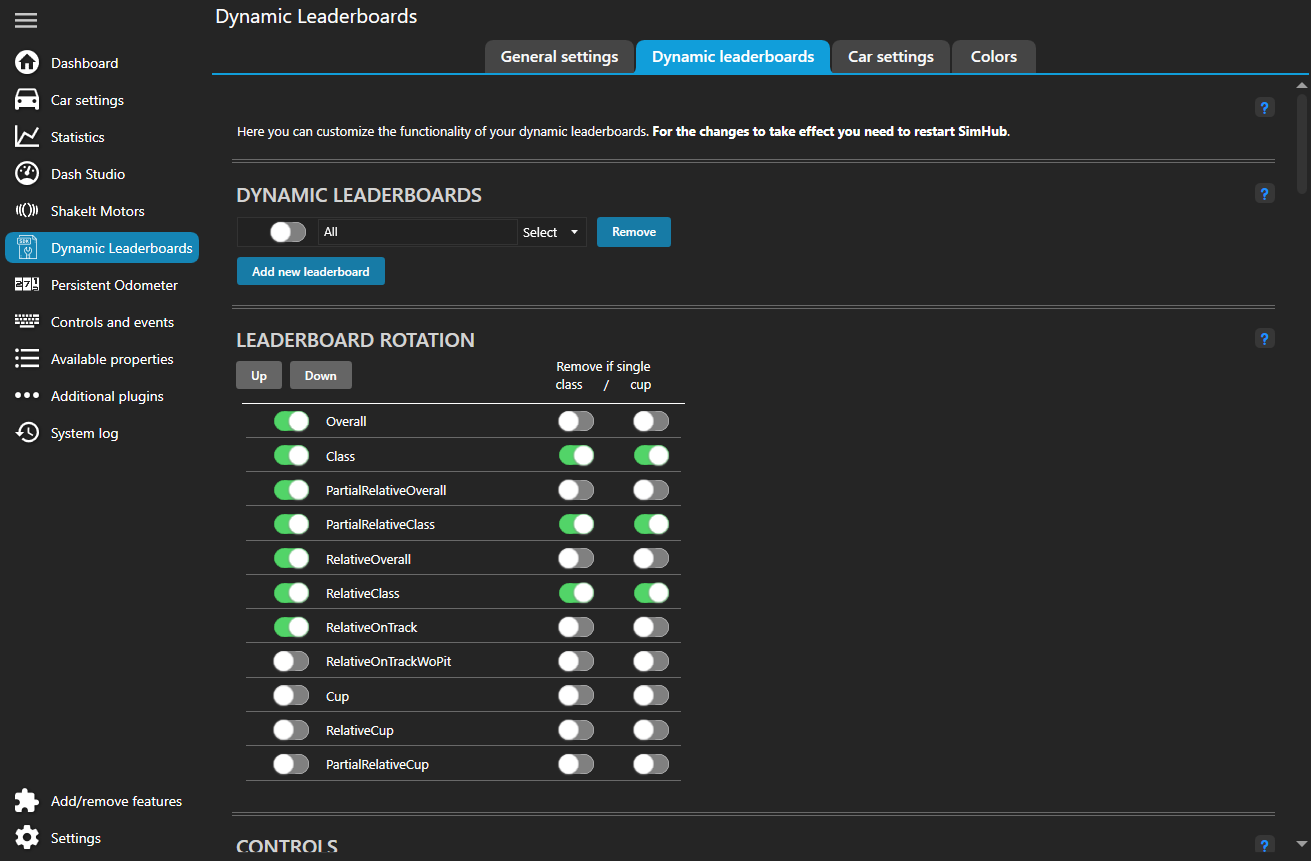
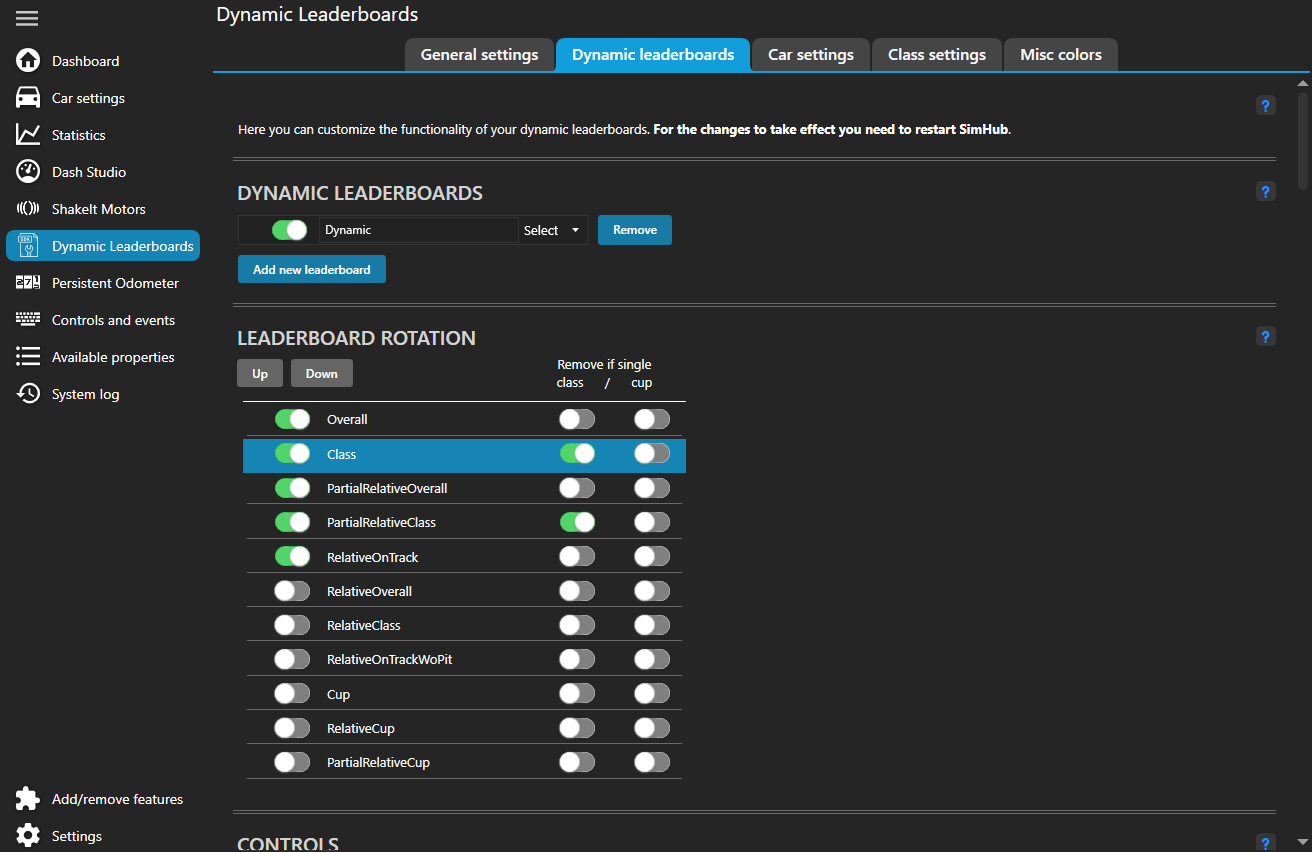
docs: add new class settings menu docs
* update car settings menu and misc colors to current state

diff --git a/src/settings/ui/SettingsControl.xaml b/src/settings/ui/SettingsControl.xaml
@@ -925,7 +925,7 @@
 
         </styles:SHTabItem>
 
-        <styles:SHTabItem Header="Colors">
+        <styles:SHTabItem Header="Misc colors">
             <ScrollViewer>
                 <StackPanel Margin="20">
                     <StackPanel.Resources>
@@ -937,7 +937,7 @@
                     </StackPanel.Resources>
 
 
-                    <local:DocsHelpButton RelativePath="user_guide/config/#colors" />
+                    <local:DocsHelpButton RelativePath="user_guide/config/#misc-colors" />
 
                     <local:SectionTitle>Team cup category colors</local:SectionTitle>
 

diff --git a/docs/docs/user_guide/config.md b/docs/docs/user_guide/config.md
@@ -12,6 +12,7 @@
 
 This plugin provides bunch of configuration options. 
 Go to the plugin settings either directly from the left main menu "Dynamic Leaderboards" item or under "Additional plugins" item.
+Each section in SimHub menu has a little help button which directly links to the relevant section in here.
 
 Below is the documentation for all the available options.
 
@@ -140,7 +141,7 @@ If you are creating your own dashboard make sure to give [Creating dashboards](c
 This tab provides an option to change car names, manufacturers and classes. 
 All the available cars are listed on the left. 
 If the plugin detects a new car while in game it will be added to the list but for now you'll
-need to manually refresh the list by clicking the "Refresh" button.
+need to manually refresh the list by clicking the `Refresh` button.
 A new car will be added in disabled state but most of the times reasonable defaults will be provided
 for easy customization.
 
@@ -156,7 +157,7 @@ However next two levels can fix it.
 
 * Next there is base plugin data which is either bundled by the plugin with the download or it's generated from game files.
 At the moment base data is provided for ACC (which matches v1.x data) and it can be generated for AC ([more information about it](#assetto-corsa)).
-Main reason for this middle layer is so that the the plugin could update and improve the data without deleting user overrides.
+The main use for base data is to match in game info (names, classes, colors etc) by default and allow us to update and improve the data without deleting user overrides.
 
 * Finally a user can override any of the car settings. These are persistent between plugin updates.
 
@@ -165,31 +166,6 @@ Main reason for this middle layer is so that the the plugin could update and imp
     In the car settings menu if a property is enabled then whatever text is in text box will be used.
     If the property is disabled then SimHub's data will be used.
 
-#### Reset or remove
-
-The toolbar menu also provides options to "reset" or "remove" options.
-These two can be a bit confusing, so what's the difference.
-
-"reset"
-: will revert back to whatever state is the plugins default. 
-    This means that if base data was provided by the plugin then it will be used.
-    If there is no base data then SimHub's data will be used.
-    The car won't be removed from the list.
-
-"remove"
-: will try to remove the setting or car completely. 
-    This always results in SimHub's data being used.
-
-    Note that if base data is available the car won't be completely removed from the list
-    but only disabled. However the effect is same, SimHub's data will be used.
-
-For example since this plugin provides base data for ACC, "reset" will restore 
-the values to that base data, whereas "remove" will fall back to SimHub's data.
-Both will keep the cars listed.
-
-However for AMS2 there is no base data, so "reset" and "remove" effectively 
-do the same thing -- fall back to SimHub's data. 
-Only difference is that "remove" will also remove the car's from the list while "reset" doesn't.
 
 #### Assetto Corsa
    
@@ -202,7 +178,7 @@ If the plugin detects that there is no base AC car data, it will try to automati
 However for further update you need to manually trigger the update. 
 This is so that we don't accidentally trigger an expensive update during a session when unknown car joins.
 
-To update the base info go to the plugin settings and under ["Car settings"](#car-settings) tab click "Update base info" button.
+To update the base info go to the plugin settings and under ["Car settings"](#car-settings) tab click `Update base info` button.
 <span title="Note that this button is only available when AC is the selected game.">:material-information-outline:<span>
 
 This means that there are actually two ways to change car information for AC. 
@@ -214,25 +190,65 @@ Either from the plugin menu or by modifying AC files directly which Content Mana
     However their actual class is represented in tags as "#class" (for example "#GT3-GTE").
     Thus if the car's class if "race" or "street" the plugin will look at tags and first tag of format "#class" is used as the class.
 
+## Class settings
 
-## Colors
+![Screenshot](../img/Config/ClassSettings.png)
+
+This tab provides an option to change class data. 
+All the available classes are listed on the left but you can add new classes too (from `Add new class` button). 
+
+Again as with ["Car settings"](#car-settings) tab if the plugin detects new classes
+they will be added to the list but for now you'll need to manually refresh the 
+list by clicking the `Refresh` button.
+
+The classes also have same [three level fallback system](#fallback-and-defaults) as ["Car settings"](#car-settings).
+Base data is provided for ACC and AMS2 to match in game class colors and for R3E to match class groups.
+
+#### Replace with
+
+If this option is set all cars that belong to the original class are shown in the `replace with` class.
+This can be useful in few cases.
+
+1. It allows to combine classes. 
+
+    For example in R3E the game provided classes are very specific and even in game itself they are combined together.
+    For example "DTM 2023" and "GTR 3" are both GT3 cars and are grouped together. 
+    Thus "DTM 2023" class' `replace with` property should probably be set to "GTR 3".
+
+    Similarly in AMS2 "GT3" and "GT3_gen2" are both "GT3" cars and in ACC "ST22" and "CHL" cars are also "GT2" cars.
+
+    The plugin provides these replacement with base data to match in game classes. 
+    If you want you can disable all of replacements from "Disable" -> "Disable all "replace with" values" menu item. 
+
+2. It allows to replace a given class with another without having to go through all the cars and change all of their classes.
+   
+    This method also has the benefit that any new car that is listed as "old class" by the game, will automatically use the new class.
+    If that is not desired, one could always change the car classes individually from the ["Car settings"](#car-settings) menu.
+
+3. It allows to rename classes. 
+   
+    First step is to duplicate the class you want to rename (from the blue `Duplicate` button). 
+    Second is to set `replace with` property on the original class to the new class.
+
+
+## Misc colors
 
 ![Screenshot](../img/Config/Colors.png)
 
-This tab allows to customize any of the colors provided by the plugin.
-This includes class, team cup category and driver category colors.
+This tab allows to customize other colors provided by the plugin.
+This includes team cup category and driver category colors.
+Note that class colors can be customized in ["Class settings"](#class-settings) tab. 
 
 Each color has background and text part which are also shown in a little preview box.
 Background color is exported simply as `Color`, for example `Car.Class.Color`. 
 Text color is exported as `TextColor`, for example `Car.Class.TextColor`.
 
-Again as with ["Car settings"](#car-settings) tab if the plugin detects new classes or categories
+Again as with ["Car settings"](#car-settings) tab if the plugin detects new categories
 they will be added to the list but for now you'll need to manually refresh the 
-list by clicking the "Refresh" button.
+list by clicking the `Refresh` button.
 
 The colors also have same [three level fallback system](#fallback-and-defaults) as ["Car settings"](#car-settings).
-Also ["reset" and "remove"](#reset-or-remove) mean exact same things.
-Base color data is provided for ACC and AMS2 to match in game class and category colors.
+Base color data is provided for ACC to match in game category colors.
 
 <!-- ## Game specific config
 
